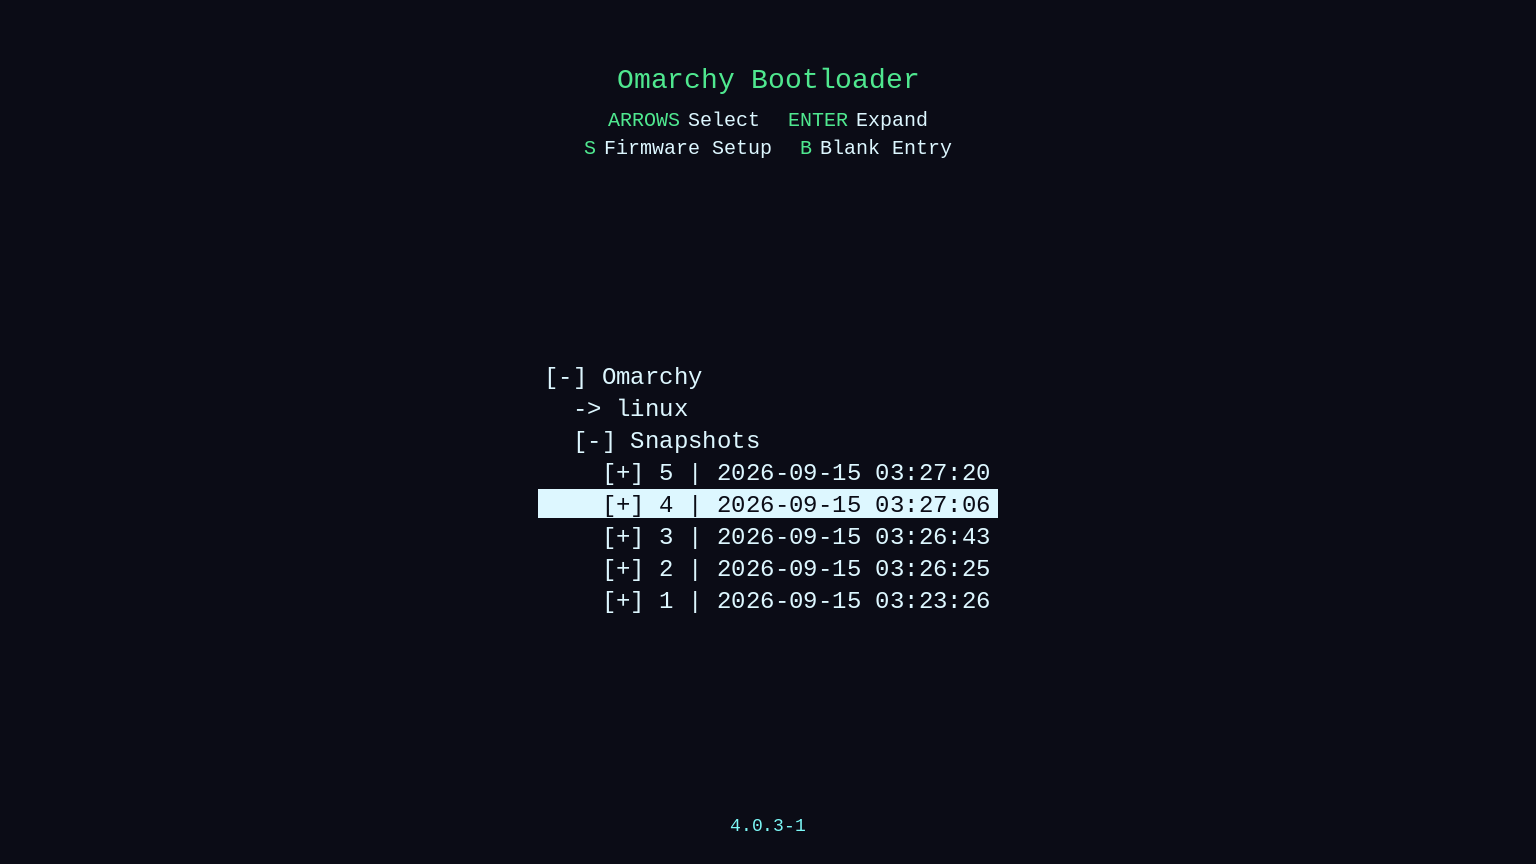
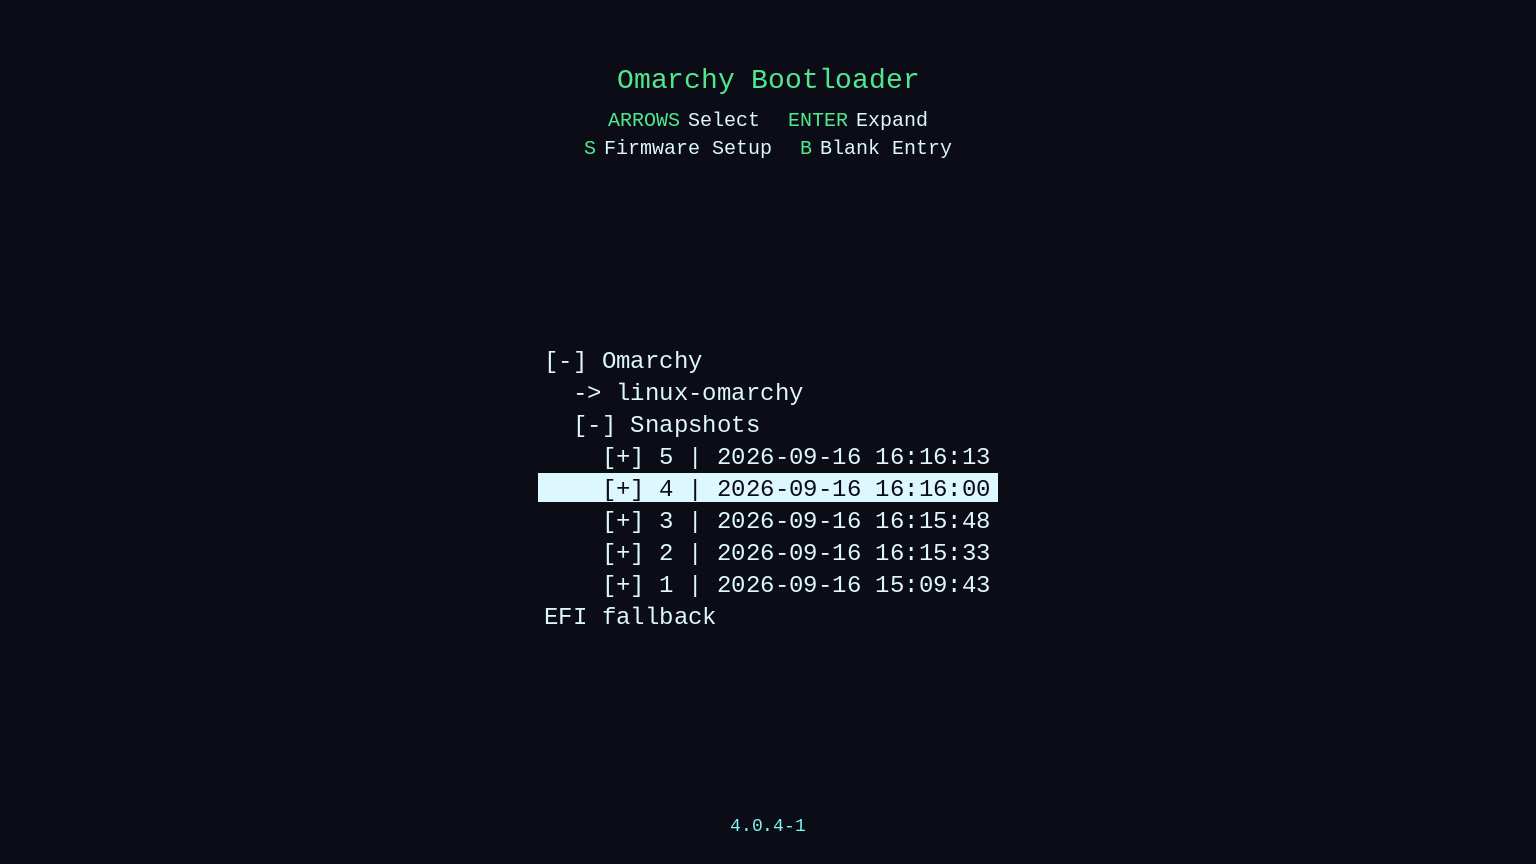
Track current Limine chrome: linux-omarchy + EFI fallback.
Cropped QEMU reference; stable Style menu order; quieter --quiet installs.

Changed region(s): [[0.3438, 0.4062, 0.6562, 0.7188]]

diff --git a/lib/omaboot.py b/lib/omaboot.py
@@ -522,7 +522,7 @@ def branding_for_mockups() -> str:
 # side gutters are mostly empty — carousel crop barely touches the subject.
 MOCKUP_SIZE = (1536, 864)
 # Bump when render_mockup chrome changes so cached tiles re-draw.
-MOCKUP_LAYOUT_VERSION = "2"
+MOCKUP_LAYOUT_VERSION = "3"
 
 
 def _input_token(path: Path | None) -> str:
@@ -698,15 +698,18 @@ def render_mockup(
     )
 
     # --- Centered tree (current Limine + limine-snapper-sync naming) ---
+    # linux-omarchy kernel entry, snapshots (often populate a few seconds after
+    # boot), then EFI fallback as a sibling of the Omarchy folder.
     lines: list[tuple[str, bool]] = [
         ("[-] Omarchy", False),
-        ("  -> linux", False),
+        ("  -> linux-omarchy", False),
         ("  [-] Snapshots", False),
-        ("    [+] 5 | 2026-09-15 03:27:20", False),
-        ("    [+] 4 | 2026-09-15 03:27:06", True),
-        ("    [+] 3 | 2026-09-15 03:26:43", False),
-        ("    [+] 2 | 2026-09-15 03:26:25", False),
-        ("    [+] 1 | 2026-09-15 03:23:26", False),
+        ("    [+] 5 | 2026-09-16 16:16:13", False),
+        ("    [+] 4 | 2026-09-16 16:16:00", True),
+        ("    [+] 3 | 2026-09-16 16:15:48", False),
+        ("    [+] 2 | 2026-09-16 16:15:33", False),
+        ("    [+] 1 | 2026-09-16 15:09:43", False),
+        ("EFI fallback", False),
     ]
     line_widths = [_text_size(draw, text, font_menu)[0] for text, _ in lines]
     tree_w = max(line_widths)
@@ -941,6 +944,54 @@ def menu_action() -> str:
     )
 
 
+STYLE_EXTENDER_BLOCKS = (
+    "omacursor",
+    "omaobs",
+    "omaboot",
+    "omavt",
+    "omatty",
+)
+
+
+def normalize_style_extender_menu_order(menu_path: Path) -> None:
+    """Keep Style extender rows in a stable file order.
+
+    Each plugin's install-menu inserts at the top of the extensions object, so
+    whichever service warms last wins the first slot and the Style submenu
+    shuffles. Extract known blocks and rewrite them in a fixed sequence.
+    """
+    if not menu_path.is_file():
+        return
+    text = menu_path.read_text(encoding="utf-8")
+    found: dict[str, str] = {}
+    for name in STYLE_EXTENDER_BLOCKS:
+        start, end = f"  // {name}:start", f"  // {name}:end"
+        pattern = re.compile(re.escape(start) + r".*?" + re.escape(end), re.S)
+        match = pattern.search(text)
+        if not match:
+            continue
+        found[name] = match.group(0).strip("\n")
+        text = pattern.sub("", text)
+    if not found:
+        return
+    text = re.sub(r"\n{3,}", "\n\n", text)
+    blocks = "\n\n".join(found[name] for name in STYLE_EXTENDER_BLOCKS if name in found)
+    idx = text.rfind("}")
+    if idx < 0:
+        return
+    head, tail = text[:idx].rstrip(), text[idx:]
+    if head and not head.endswith("\n"):
+        head += "\n"
+    new = head + "\n" + blocks + "\n" + tail
+    if not new.endswith("\n"):
+        new += "\n"
+    try:
+        old = menu_path.read_text(encoding="utf-8")
+    except OSError:
+        old = ""
+    if new != old:
+        atomic_write(menu_path, new)
+
 def install_menu_entry() -> None:
     path = paths()["menu"]
     content = path.read_text(encoding="utf-8") if path.is_file() else "{\n}\n"
@@ -966,6 +1017,9 @@ def install_menu_entry() -> None:
     body.append(MENU_END)
     insertion = "\n".join(body) + "\n"
     atomic_write(path, content[: brace + 1] + "\n" + insertion + content[brace + 1 :])
+
+
+    normalize_style_extender_menu_order(path)
 
 
 def uninstall_menu_entry() -> None:

diff --git a/README.md b/README.md
@@ -30,7 +30,7 @@ making *another* theme is more worth it. Longer origin / stop-line:
 | Extreme compatibility | Stock + user + foreign themes all appear in the picker automatically. |
 | True Theme Vibe | Mockups track **current** Limine chrome + your theme’s hex — **much closer**, if not identical, to what those colours look like on bare metal. Still **not** a framebuffer capture. |
 | Carousel-safe | Mockups are 1536×864 (menu-images thumbnail size). Current Limine is dead-centered, so the 768×475 tile crop mostly shaves empty sides. |
-| Snappy pickers | Mockups warm in parallel across CPU cores and **skip tiles whose `colors.toml` / branding / layout haven’t changed** — reopen is near-instant. |
+| Snappy pickers | Mockups warm in parallel across CPU cores and **skip tiles whose `colors.toml` / branding / layout haven’t changed** — reopen is near-instant. On par with Omarchy’s stock Style carousels; Cursors often feels even snappier. |
 
 We are **not** putting WYSIWYG screenshots in themes. Themes stay palette-only;
 OmaBoot draws the chrome itself. True pixel-identical boot art would need QEMU /
@@ -71,13 +71,13 @@ a joke — still not pixel-identical UEFI output, but the *vibe* is there.
 
 **How it was done**
 
-1. Grab a clean **current** Omarchy Limine screen in QEMU (no capture card) on
-   stock Tokyo Night — five joke update checks so Snapshots had rows, second
-   entry highlighted like the Manual used to.
+1. Grab a clean **current** Omarchy Limine screen in QEMU (crop the grey
+   letterbox), on a real palette — Snapshots populated after a moment,
+   `linux-omarchy` entry, **EFI fallback** sibling, selection on a snapshot row.
 2. Trace that chrome in Pillow: centered branding, help under the title,
-   `-> linux` / Snapshots tree, `[+] N | timestamp` rows, inverse selection,
-   package version footer. Dead-centered so the Style carousel crop barely
-   matters.
+   `-> linux-omarchy` / Snapshots tree, `[+] N | timestamp` rows, inverse
+   selection, `EFI fallback`, package version footer. Dead-centered so the
+   Style carousel crop barely matters.
 3. Recolour the same silhouette from every installed theme’s `colors.toml`.
    Themes stay palette-only; the plugin owns the art.
 
@@ -88,9 +88,9 @@ matched it first; this release tracks live Limine 12 / Omarchy 4 chrome instead.
 
 **Compare — real QEMU capture vs generated mockup (same theme):**
 
-| Real Limine (QEMU, Tokyo Night) | OmaBoot mockup (Tokyo Night) |
+| Real Limine (QEMU, Asphalt Legends — grey letterbox cropped) | OmaBoot mockup (Asphalt Legends) |
 | --- | --- |
-| ![Real Omarchy Limine on Tokyo Night — QEMU reference](reference-limine-tokyo-night.png) | ![OmaBoot Tokyo Night mockup — same layout, drawn from colors.toml](preview-tokyo-night.png) |
+| ![Real Omarchy Limine — QEMU reference](reference-limine-asphalt.png) | ![OmaBoot Asphalt Legends mockup — same layout, drawn from colors.toml](preview-asphalt-legends.png) |
 
 Hero at the top is the same chrome on **Hackerman**, so the picker story is
 obvious: same Limine, different theme colours. Not every Style plugin will land
